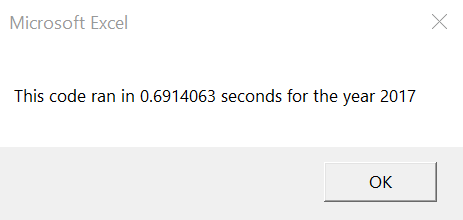
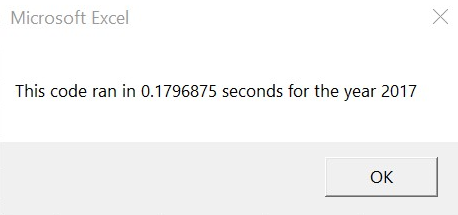
Updated Code

diff --git a/README.md b/README.md
@@ -37,7 +37,7 @@ ENPH and RUN stocks return was over 129% and 5% respectively (See image below Al
 
 ![VBA_Challenge_2018_Original](./Resources/VBA_Challenge_2018_Original.png)
 
-2017 and 2018 Refactored All Stock Analysis execution time is 2-3 seconds faster than the 2017 and 2018 All Stock Analysis (Original). 
+2017 and 2018 Refactored All Stock Analysis execution time is approximately 54 seconds faster than the 2017 and 2018 All Stock Analysis (Original). 
 
 ## Summary
 What are the advantages or disadvantages of refactoring code?
